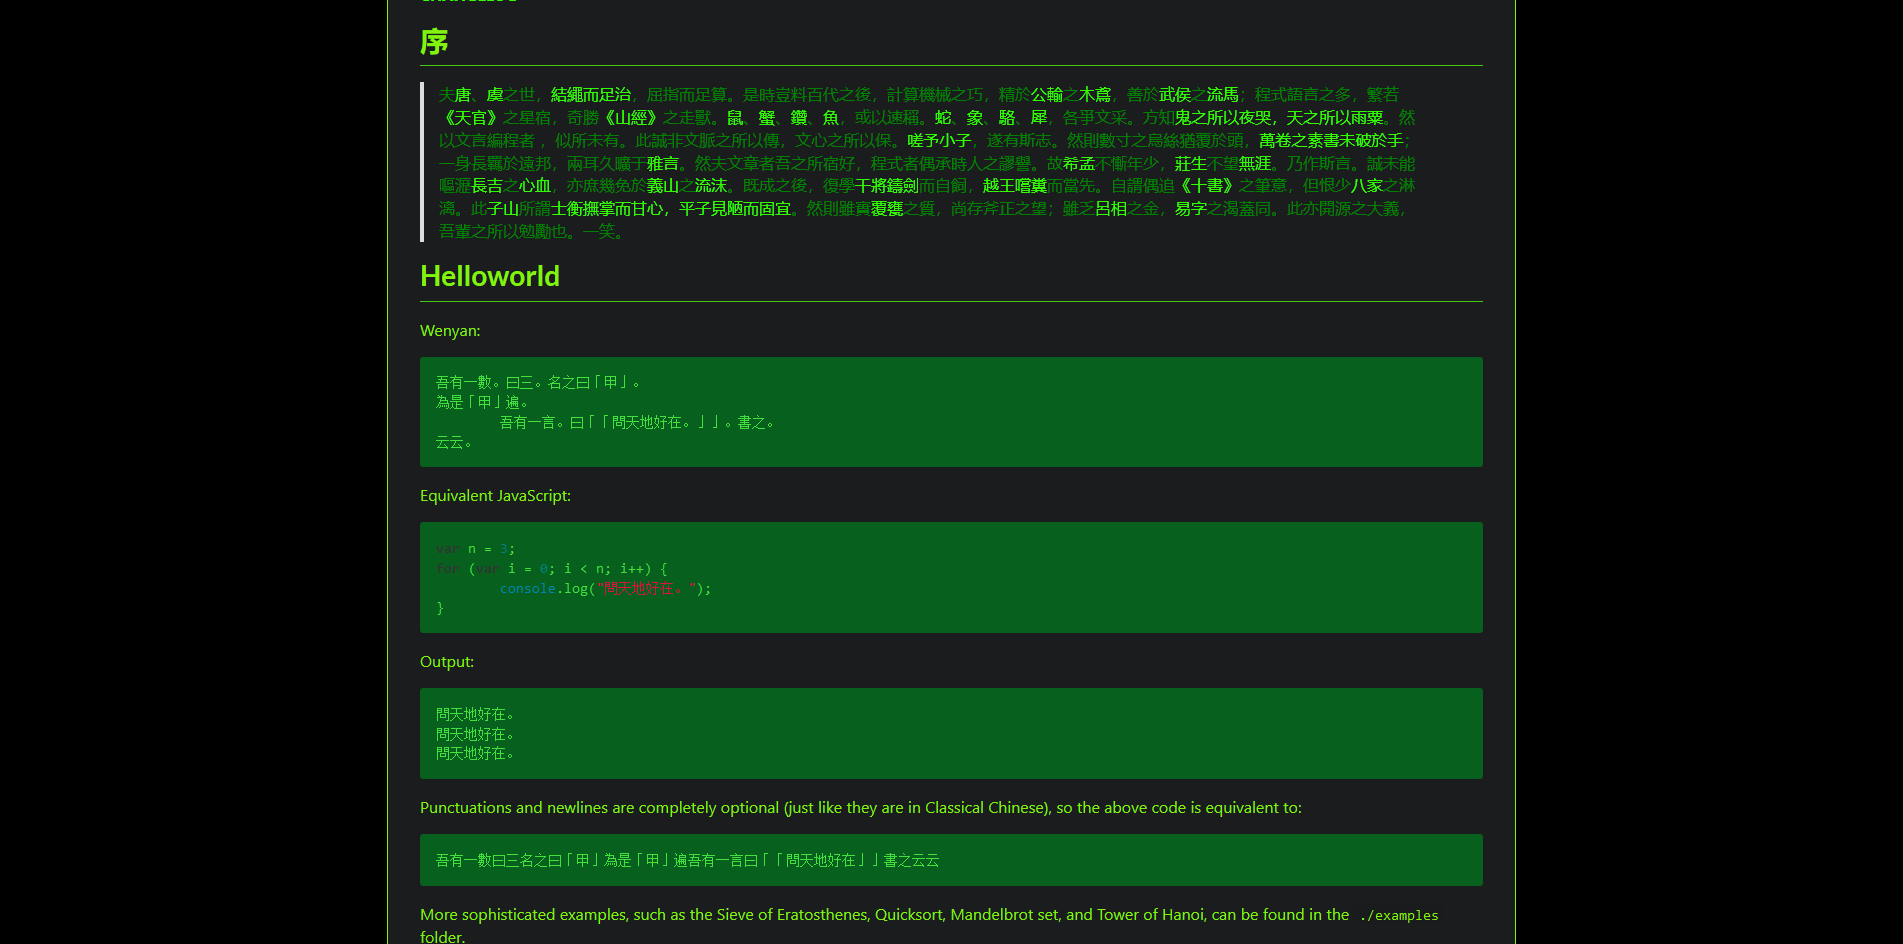
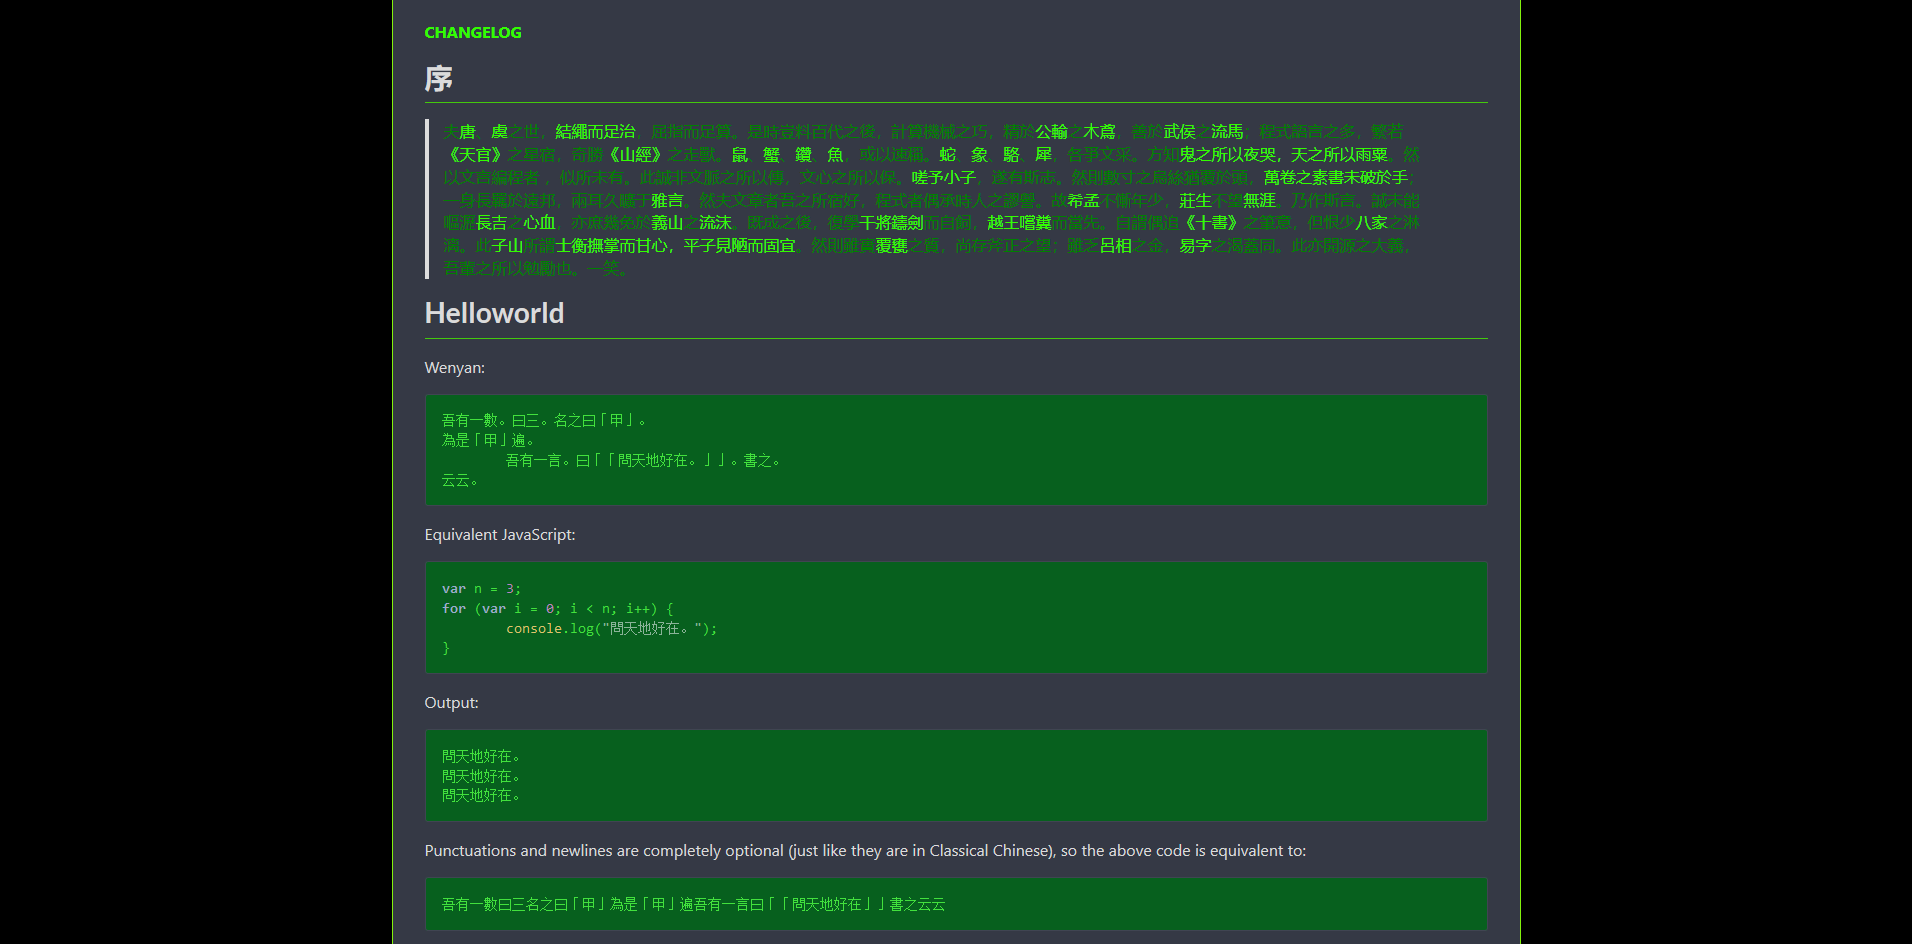
Change preview picture and for Gitea version
Change the previous preview pictures to fit the latest branch.

Change "For Gitea Verison" to 1.11.0

diff --git a/README.md b/README.md
@@ -10,16 +10,18 @@
 
 ![preview 4](preview/signedhomepage.png "Preview")
 
-![preview 5](preview/repopage.png "Preview")
+![preview 5](preview/repopage1.png "Preview")
 
-![preview 6](preview/markdowneditor.png "Preview")
+![preview 6](preview/repopage2.png "Preview")
 
-![preview 7](preview/profilepage.png "Preview")
+![preview 7](preview/markdowneditor.png "Preview")
 
-![preview 8](preview/settingpage.png "Preview")
+![preview 8](preview/profilepage.png "Preview")
+
+![preview 9](preview/settingpage.png "Preview")
 
 
-## For Gitea Version ***1.10.3***
+## For Gitea Version ***1.11.0***
 
 ## How to use:
 1. Find your gitea custom directory path in ***Site Administration > Configuration > Custom File Root Path***.
